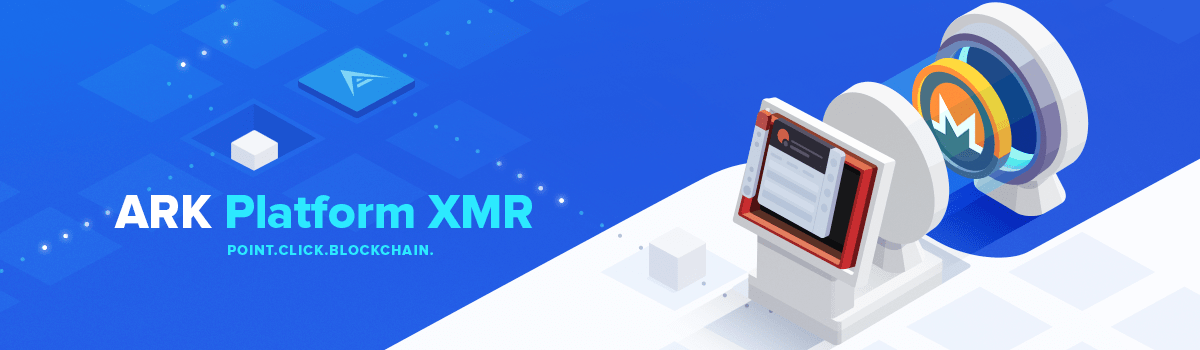
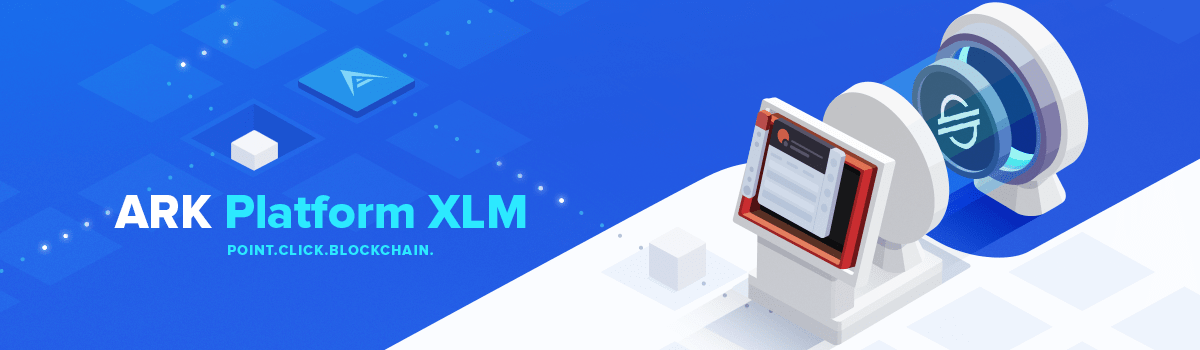
chore(xlm): update manifest and documentation (#201)

Changed region(s): [[0.74, 0.1429, 0.8633, 0.5143], [0.37, 0.5429, 0.4625, 0.6571]]

diff --git a/packages/platform-sdk-xlm/src/manifest.ts b/packages/platform-sdk-xlm/src/manifest.ts
@@ -15,9 +15,9 @@ export const manifest = {
 	},
 	behaviours: {
 		Client: {
-			transaction: false,
-			transactions: false,
-			wallet: false,
+			transaction: true,
+			transactions: true,
+			wallet: true,
 			wallets: false,
 			delegate: false,
 			delegates: false,
@@ -26,34 +26,34 @@ export const manifest = {
 			configuration: false,
 			fees: false,
 			syncing: false,
-			broadcast: false,
+			broadcast: true,
 		},
 		Fee: {
 			all: false,
 		},
 		Identity: {
 			address: {
-				passphrase: false,
+				passphrase: true,
 				multiSignature: false,
 				publicKey: false,
 				privateKey: false,
 				wif: false,
 			},
 			publicKey: {
-				passphrase: false,
+				passphrase: true,
 				multiSignature: false,
 				wif: false,
 			},
 			privateKey: {
-				passphrase: false,
+				passphrase: true,
 				wif: false,
 			},
 			wif: {
 				passphrase: false,
 			},
 			keyPair: {
-				passphrase: false,
-				privateKey: false,
+				passphrase: true,
+				privateKey: true,
 				wif: false,
 			},
 		},
@@ -78,7 +78,7 @@ export const manifest = {
 			searchWithoutEstimates: false,
 		},
 		Transaction: {
-			transfer: false,
+			transfer: true,
 			secondSignature: false,
 			delegateRegistration: false,
 			vote: false,

diff --git a/docs/coins/index.md b/docs/coins/index.md
@@ -36,56 +36,56 @@ To avoid an inconsistent public API where some things are instantiated and calle
 
 ## Functionality
 
-| Class              | Functions                 | ADA                | ARK                | ATOM               | BTC                | EOS                | ETH                | LSK                | NEO                | TRX                | XMR                | XRP                |
-| ------------------ | ------------------------- | ------------------ | ------------------ | ------------------ | ------------------ | ------------------ | ------------------ | ------------------ | ------------------ | ------------------ | ------------------ | ------------------ |
-| ClientService      | transaction               | :x:                | :white_check_mark: | :x:                | :white_check_mark: | :x:                | :x:                | :white_check_mark: | :x:                | :white_check_mark: | :x:                | :white_check_mark: |
-| ClientService      | transactions              | :x:                | :white_check_mark: | :x:                | :x:                | :x:                | :x:                | :white_check_mark: | :white_check_mark: | :x:                | :x:                | :white_check_mark: |
-| ClientService      | wallet                    | :x:                | :white_check_mark: | :x:                | :white_check_mark: | :white_check_mark: | :x:                | :white_check_mark: | :x:                | :white_check_mark: | :x:                | :white_check_mark: |
-| ClientService      | wallets                   | :x:                | :white_check_mark: | :x:                | :x:                | :x:                | :x:                | :white_check_mark: | :x:                | :x:                | :x:                | :x:                |
-| ClientService      | delegate                  | :x:                | :white_check_mark: | :x:                | :x:                | :x:                | :x:                | :white_check_mark: | :x:                | :x:                | :x:                | :x:                |
-| ClientService      | delegates                 | :x:                | :white_check_mark: | :x:                | :x:                | :x:                | :x:                | :white_check_mark: | :x:                | :x:                | :x:                | :x:                |
-| ClientService      | votes                     | :x:                | :white_check_mark: | :x:                | :x:                | :x:                | :x:                | :x:                | :x:                | :x:                | :x:                | :x:                |
-| ClientService      | voters                    | :x:                | :white_check_mark: | :x:                | :x:                | :x:                | :x:                | :x:                | :x:                | :x:                | :x:                | :x:                |
-| ClientService      | syncing                   | :x:                | :white_check_mark: | :white_check_mark: | :x:                | :x:                | :x:                | :x:                | :x:                | :x:                | :x:                | :x:                |
-| ClientService      | broadcast                 | :x:                | :white_check_mark: | :white_check_mark: | :white_check_mark: | :white_check_mark: | :x:                | :white_check_mark: | :white_check_mark: | :x:                | :x:                | :white_check_mark: |
-| FeeService         | all                       | :x:                | :white_check_mark: | :x:                | :x:                | :x:                | :x:                | :x:                | :x:                | :x:                | :x:                | :x:                |
-| IdentityService    | address(passphrase)       | :x:                | :white_check_mark: | :white_check_mark: | :white_check_mark: | :x:                | :x:                | :white_check_mark: | :white_check_mark: | :x:                | :x:                | :white_check_mark: |
-| IdentityService    | address(multiSignature)   | :x:                | :white_check_mark: | :x:                | :white_check_mark: | :x:                | :x:                | :x:                | :x:                | :x:                | :x:                | :x:                |
-| IdentityService    | address(publicKey)        | :x:                | :white_check_mark: | :x:                | :white_check_mark: | :x:                | :white_check_mark: | :x:                | :white_check_mark: | :x:                | :x:                | :white_check_mark: |
-| IdentityService    | address(privateKey)       | :x:                | :white_check_mark: | :x:                | :white_check_mark: | :x:                | :white_check_mark: | :x:                | :white_check_mark: | :x:                | :x:                | :x:                |
-| IdentityService    | address(wif)              | :x:                | :white_check_mark: | :x:                | :white_check_mark: | :x:                | :x:                | :x:                | :white_check_mark: | :x:                | :x:                | :x:                |
-| IdentityService    | publicKey(passphrase)     | :x:                | :white_check_mark: | :white_check_mark: | :white_check_mark: | :x:                | :x:                | :white_check_mark: | :white_check_mark: | :x:                | :x:                | :x:                |
-| IdentityService    | publicKey(multiSignature) | :x:                | :white_check_mark: | :x:                | :x:                | :x:                | :x:                | :x:                | :x:                | :x:                | :x:                | :x:                |
-| IdentityService    | publicKey(wif)            | :x:                | :white_check_mark: | :x:                | :white_check_mark: | :x:                | :x:                | :x:                | :white_check_mark: | :x:                | :x:                | :x:                |
-| IdentityService    | privateKey(passphrase)    | :x:                | :white_check_mark: | :white_check_mark: | :white_check_mark: | :x:                | :x:                | :white_check_mark: | :white_check_mark: | :x:                | :x:                | :x:                |
-| IdentityService    | privateKey(wif)           | :x:                | :white_check_mark: | :x:                | :white_check_mark: | :x:                | :x:                | :x:                | :white_check_mark: | :x:                | :x:                | :x:                |
-| IdentityService    | wif(passphrase)           | :x:                | :white_check_mark: | :x:                | :white_check_mark: | :x:                | :x:                | :x:                | :white_check_mark: | :x:                | :x:                | :x:                |
-| IdentityService    | keyPair(passphrase)       | :x:                | :white_check_mark: | :white_check_mark: | :white_check_mark: | :x:                | :x:                | :white_check_mark: | :white_check_mark: | :x:                | :x:                | :white_check_mark: |
-| IdentityService    | keyPair(privateKey)       | :x:                | :x:                | :x:                | :white_check_mark: | :x:                | :white_check_mark: | :x:                | :white_check_mark: | :x:                | :x:                | :x:                |
-| IdentityService    | keyPair(wif)              | :x:                | :white_check_mark: | :x:                | :white_check_mark: | :x:                | :x:                | :x:                | :white_check_mark: | :x:                | :x:                | :x:                |
-| LedgerService      | getVersion                | :x:                | :white_check_mark: | :x:                | :x:                | :x:                | :x:                | :x:                | :x:                | :x:                | :x:                | :x:                |
-| LedgerService      | getPublicKey              | :x:                | :white_check_mark: | :x:                | :x:                | :x:                | :x:                | :x:                | :x:                | :x:                | :x:                | :x:                |
-| LedgerService      | signTransaction           | :x:                | :white_check_mark: | :x:                | :x:                | :x:                | :x:                | :x:                | :x:                | :x:                | :x:                | :x:                |
-| LedgerService      | signMessage               | :x:                | :white_check_mark: | :x:                | :x:                | :x:                | :x:                | :x:                | :x:                | :x:                | :x:                | :x:                |
-| LinkService        | block                     | :white_check_mark: | :white_check_mark: | :white_check_mark: | :white_check_mark: | :white_check_mark: | :white_check_mark: | :white_check_mark: | :white_check_mark: | :white_check_mark: | :white_check_mark: | :white_check_mark: |
-| LinkService        | transaction               | :white_check_mark: | :white_check_mark: | :white_check_mark: | :white_check_mark: | :white_check_mark: | :white_check_mark: | :white_check_mark: | :white_check_mark: | :white_check_mark: | :white_check_mark: | :white_check_mark: |
-| LinkService        | wallet                    | :white_check_mark: | :white_check_mark: | :white_check_mark: | :white_check_mark: | :white_check_mark: | :white_check_mark: | :white_check_mark: | :white_check_mark: | :white_check_mark: | :white_check_mark: | :white_check_mark: |
-| MessageService     | sign                      | :x:                | :white_check_mark: | :white_check_mark: | :white_check_mark: | :white_check_mark: | :white_check_mark: | :white_check_mark: | :white_check_mark: | :x:                | :x:                | :white_check_mark: |
-| MessageService     | verify                    | :x:                | :white_check_mark: | :white_check_mark: | :white_check_mark: | :white_check_mark: | :white_check_mark: | :white_check_mark: | :white_check_mark: | :x:                | :x:                | :white_check_mark: |
-| PeerService        | search                    | :x:                | :white_check_mark: | :x:                | :x:                | :x:                | :x:                | :x:                | :x:                | :x:                | :x:                | :x:                |
-| PeerService        | searchWithPlugin          | :x:                | :white_check_mark: | :x:                | :x:                | :x:                | :x:                | :x:                | :x:                | :x:                | :x:                | :x:                |
-| PeerService        | searchWithoutEstimates    | :x:                | :white_check_mark: | :x:                | :x:                | :x:                | :x:                | :x:                | :x:                | :x:                | :x:                | :x:                |
-| TransactionService | transfer                  | :x:                | :white_check_mark: | :white_check_mark: | :white_check_mark: | :x:                | :white_check_mark: | :white_check_mark: | :white_check_mark: | :white_check_mark: | :x:                | :white_check_mark: |
-| TransactionService | secondSignature           | :x:                | :white_check_mark: | :x:                | :x:                | :x:                | :x:                | :white_check_mark: | :x:                | :x:                | :x:                | :x:                |
-| TransactionService | delegateRegistration      | :x:                | :white_check_mark: | :x:                | :x:                | :x:                | :x:                | :white_check_mark: | :x:                | :x:                | :x:                | :x:                |
-| TransactionService | vote                      | :x:                | :white_check_mark: | :x:                | :x:                | :x:                | :x:                | :white_check_mark: | :x:                | :x:                | :x:                | :x:                |
-| TransactionService | multiSignature            | :x:                | :white_check_mark: | :x:                | :x:                | :x:                | :x:                | :white_check_mark: | :x:                | :x:                | :x:                | :x:                |
-| TransactionService | ipfs                      | :x:                | :white_check_mark: | :x:                | :x:                | :x:                | :x:                | :x:                | :x:                | :x:                | :x:                | :x:                |
-| TransactionService | multiPayment              | :x:                | :white_check_mark: | :x:                | :x:                | :x:                | :x:                | :x:                | :x:                | :x:                | :x:                | :x:                |
-| TransactionService | delegateResignation       | :x:                | :white_check_mark: | :x:                | :x:                | :x:                | :x:                | :x:                | :x:                | :x:                | :x:                | :x:                |
-| TransactionService | htlcLock                  | :x:                | :white_check_mark: | :x:                | :x:                | :x:                | :x:                | :x:                | :x:                | :x:                | :x:                | :x:                |
-| TransactionService | htlcClaim                 | :x:                | :white_check_mark: | :x:                | :x:                | :x:                | :x:                | :x:                | :x:                | :x:                | :x:                | :x:                |
-| TransactionService | htlcRefund                | :x:                | :white_check_mark: | :x:                | :x:                | :x:                | :x:                | :x:                | :x:                | :x:                | :x:                | :x:                |
+| Class              | Functions                 | ADA                | ARK                | ATOM               | BTC                | EOS                | ETH                | LSK                | NEO                | TRX                | XLM                | XMR                | XRP                |
+| ------------------ | ------------------------- | ------------------ | ------------------ | ------------------ | ------------------ | ------------------ | ------------------ | ------------------ | ------------------ | ------------------ | ------------------ | ------------------ | ------------------ |
+| ClientService      | transaction               | :x:                | :white_check_mark: | :x:                | :white_check_mark: | :x:                | :x:                | :white_check_mark: | :x:                | :white_check_mark: | :white_check_mark: | :x:                | :white_check_mark: |
+| ClientService      | transactions              | :x:                | :white_check_mark: | :x:                | :x:                | :x:                | :x:                | :white_check_mark: | :white_check_mark: | :x:                | :white_check_mark: | :x:                | :white_check_mark: |
+| ClientService      | wallet                    | :x:                | :white_check_mark: | :x:                | :white_check_mark: | :white_check_mark: | :x:                | :white_check_mark: | :x:                | :white_check_mark: | :white_check_mark: | :x:                | :white_check_mark: |
+| ClientService      | wallets                   | :x:                | :white_check_mark: | :x:                | :x:                | :x:                | :x:                | :white_check_mark: | :x:                | :x:                | :x:                | :x:                | :x:                |
+| ClientService      | delegate                  | :x:                | :white_check_mark: | :x:                | :x:                | :x:                | :x:                | :white_check_mark: | :x:                | :x:                | :x:                | :x:                | :x:                |
+| ClientService      | delegates                 | :x:                | :white_check_mark: | :x:                | :x:                | :x:                | :x:                | :white_check_mark: | :x:                | :x:                | :x:                | :x:                | :x:                |
+| ClientService      | votes                     | :x:                | :white_check_mark: | :x:                | :x:                | :x:                | :x:                | :x:                | :x:                | :x:                | :x:                | :x:                | :x:                |
+| ClientService      | voters                    | :x:                | :white_check_mark: | :x:                | :x:                | :x:                | :x:                | :x:                | :x:                | :x:                | :x:                | :x:                | :x:                |
+| ClientService      | syncing                   | :x:                | :white_check_mark: | :white_check_mark: | :x:                | :x:                | :x:                | :x:                | :x:                | :x:                | :x:                | :x:                | :x:                |
+| ClientService      | broadcast                 | :x:                | :white_check_mark: | :white_check_mark: | :white_check_mark: | :white_check_mark: | :x:                | :white_check_mark: | :white_check_mark: | :x:                | :white_check_mark: | :x:                | :white_check_mark: |
+| FeeService         | all                       | :x:                | :white_check_mark: | :x:                | :x:                | :x:                | :x:                | :x:                | :x:                | :x:                | :x:                | :x:                | :x:                |
+| IdentityService    | address(passphrase)       | :x:                | :white_check_mark: | :white_check_mark: | :white_check_mark: | :x:                | :x:                | :white_check_mark: | :white_check_mark: | :x:                | :white_check_mark: | :x:                | :white_check_mark: |
+| IdentityService    | address(multiSignature)   | :x:                | :white_check_mark: | :x:                | :white_check_mark: | :x:                | :x:                | :x:                | :x:                | :x:                | :x:                | :x:                | :x:                |
+| IdentityService    | address(publicKey)        | :x:                | :white_check_mark: | :x:                | :white_check_mark: | :x:                | :white_check_mark: | :x:                | :white_check_mark: | :x:                | :x:                | :x:                | :white_check_mark: |
+| IdentityService    | address(privateKey)       | :x:                | :white_check_mark: | :x:                | :white_check_mark: | :x:                | :white_check_mark: | :x:                | :white_check_mark: | :x:                | :white_check_mark: | :x:                | :x:                |
+| IdentityService    | address(wif)              | :x:                | :white_check_mark: | :x:                | :white_check_mark: | :x:                | :x:                | :x:                | :white_check_mark: | :x:                | :x:                | :x:                | :x:                |
+| IdentityService    | publicKey(passphrase)     | :x:                | :white_check_mark: | :white_check_mark: | :white_check_mark: | :x:                | :x:                | :white_check_mark: | :white_check_mark: | :x:                | :white_check_mark: | :x:                | :x:                |
+| IdentityService    | publicKey(multiSignature) | :x:                | :white_check_mark: | :x:                | :x:                | :x:                | :x:                | :x:                | :x:                | :x:                | :x:                | :x:                | :x:                |
+| IdentityService    | publicKey(wif)            | :x:                | :white_check_mark: | :x:                | :white_check_mark: | :x:                | :x:                | :x:                | :white_check_mark: | :x:                | :x:                | :x:                | :x:                |
+| IdentityService    | privateKey(passphrase)    | :x:                | :white_check_mark: | :white_check_mark: | :white_check_mark: | :x:                | :x:                | :white_check_mark: | :white_check_mark: | :x:                | :white_check_mark: | :x:                | :x:                |
+| IdentityService    | privateKey(wif)           | :x:                | :white_check_mark: | :x:                | :white_check_mark: | :x:                | :x:                | :x:                | :white_check_mark: | :x:                | :x:                | :x:                | :x:                |
+| IdentityService    | wif(passphrase)           | :x:                | :white_check_mark: | :x:                | :white_check_mark: | :x:                | :x:                | :x:                | :white_check_mark: | :x:                | :x:                | :x:                | :x:                |
+| IdentityService    | keyPair(passphrase)       | :x:                | :white_check_mark: | :white_check_mark: | :white_check_mark: | :x:                | :x:                | :white_check_mark: | :white_check_mark: | :x:                | :white_check_mark: | :x:                | :white_check_mark: |
+| IdentityService    | keyPair(privateKey)       | :x:                | :x:                | :x:                | :white_check_mark: | :x:                | :white_check_mark: | :x:                | :white_check_mark: | :x:                | :white_check_mark: | :x:                | :x:                |
+| IdentityService    | keyPair(wif)              | :x:                | :white_check_mark: | :x:                | :white_check_mark: | :x:                | :x:                | :x:                | :white_check_mark: | :x:                | :x:                | :x:                | :x:                |
+| LedgerService      | getVersion                | :x:                | :white_check_mark: | :x:                | :x:                | :x:                | :x:                | :x:                | :x:                | :x:                | :x:                | :x:                | :x:                |
+| LedgerService      | getPublicKey              | :x:                | :white_check_mark: | :x:                | :x:                | :x:                | :x:                | :x:                | :x:                | :x:                | :x:                | :x:                | :x:                |
+| LedgerService      | signTransaction           | :x:                | :white_check_mark: | :x:                | :x:                | :x:                | :x:                | :x:                | :x:                | :x:                | :x:                | :x:                | :x:                |
+| LedgerService      | signMessage               | :x:                | :white_check_mark: | :x:                | :x:                | :x:                | :x:                | :x:                | :x:                | :x:                | :x:                | :x:                | :x:                |
+| LinkService        | block                     | :white_check_mark: | :white_check_mark: | :white_check_mark: | :white_check_mark: | :white_check_mark: | :white_check_mark: | :white_check_mark: | :white_check_mark: | :white_check_mark: | :white_check_mark: | :white_check_mark: | :white_check_mark: |
+| LinkService        | transaction               | :white_check_mark: | :white_check_mark: | :white_check_mark: | :white_check_mark: | :white_check_mark: | :white_check_mark: | :white_check_mark: | :white_check_mark: | :white_check_mark: | :white_check_mark: | :white_check_mark: | :white_check_mark: |
+| LinkService        | wallet                    | :white_check_mark: | :white_check_mark: | :white_check_mark: | :white_check_mark: | :white_check_mark: | :white_check_mark: | :white_check_mark: | :white_check_mark: | :white_check_mark: | :white_check_mark: | :white_check_mark: | :white_check_mark: |
+| MessageService     | sign                      | :x:                | :white_check_mark: | :white_check_mark: | :white_check_mark: | :white_check_mark: | :white_check_mark: | :white_check_mark: | :white_check_mark: | :x:                | :x:                | :x:                | :white_check_mark: |
+| MessageService     | verify                    | :x:                | :white_check_mark: | :white_check_mark: | :white_check_mark: | :white_check_mark: | :white_check_mark: | :white_check_mark: | :white_check_mark: | :x:                | :x:                | :x:                | :white_check_mark: |
+| PeerService        | search                    | :x:                | :white_check_mark: | :x:                | :x:                | :x:                | :x:                | :x:                | :x:                | :x:                | :x:                | :x:                | :x:                |
+| PeerService        | searchWithPlugin          | :x:                | :white_check_mark: | :x:                | :x:                | :x:                | :x:                | :x:                | :x:                | :x:                | :x:                | :x:                | :x:                |
+| PeerService        | searchWithoutEstimates    | :x:                | :white_check_mark: | :x:                | :x:                | :x:                | :x:                | :x:                | :x:                | :x:                | :x:                | :x:                | :x:                |
+| TransactionService | transfer                  | :x:                | :white_check_mark: | :white_check_mark: | :white_check_mark: | :x:                | :white_check_mark: | :white_check_mark: | :white_check_mark: | :white_check_mark: | :white_check_mark: | :x:                | :white_check_mark: |
+| TransactionService | secondSignature           | :x:                | :white_check_mark: | :x:                | :x:                | :x:                | :x:                | :white_check_mark: | :x:                | :x:                | :x:                | :x:                | :x:                |
+| TransactionService | delegateRegistration      | :x:                | :white_check_mark: | :x:                | :x:                | :x:                | :x:                | :white_check_mark: | :x:                | :x:                | :x:                | :x:                | :x:                |
+| TransactionService | vote                      | :x:                | :white_check_mark: | :x:                | :x:                | :x:                | :x:                | :white_check_mark: | :x:                | :x:                | :x:                | :x:                | :x:                |
+| TransactionService | multiSignature            | :x:                | :white_check_mark: | :x:                | :x:                | :x:                | :x:                | :white_check_mark: | :x:                | :x:                | :x:                | :x:                | :x:                |
+| TransactionService | ipfs                      | :x:                | :white_check_mark: | :x:                | :x:                | :x:                | :x:                | :x:                | :x:                | :x:                | :x:                | :x:                | :x:                |
+| TransactionService | multiPayment              | :x:                | :white_check_mark: | :x:                | :x:                | :x:                | :x:                | :x:                | :x:                | :x:                | :x:                | :x:                | :x:                |
+| TransactionService | delegateResignation       | :x:                | :white_check_mark: | :x:                | :x:                | :x:                | :x:                | :x:                | :x:                | :x:                | :x:                | :x:                | :x:                |
+| TransactionService | htlcLock                  | :x:                | :white_check_mark: | :x:                | :x:                | :x:                | :x:                | :x:                | :x:                | :x:                | :x:                | :x:                | :x:                |
+| TransactionService | htlcClaim                 | :x:                | :white_check_mark: | :x:                | :x:                | :x:                | :x:                | :x:                | :x:                | :x:                | :x:                | :x:                | :x:                |
+| TransactionService | htlcRefund                | :x:                | :white_check_mark: | :x:                | :x:                | :x:                | :x:                | :x:                | :x:                | :x:                | :x:                | :x:                | :x:                |
 
 ## API Methods
 
